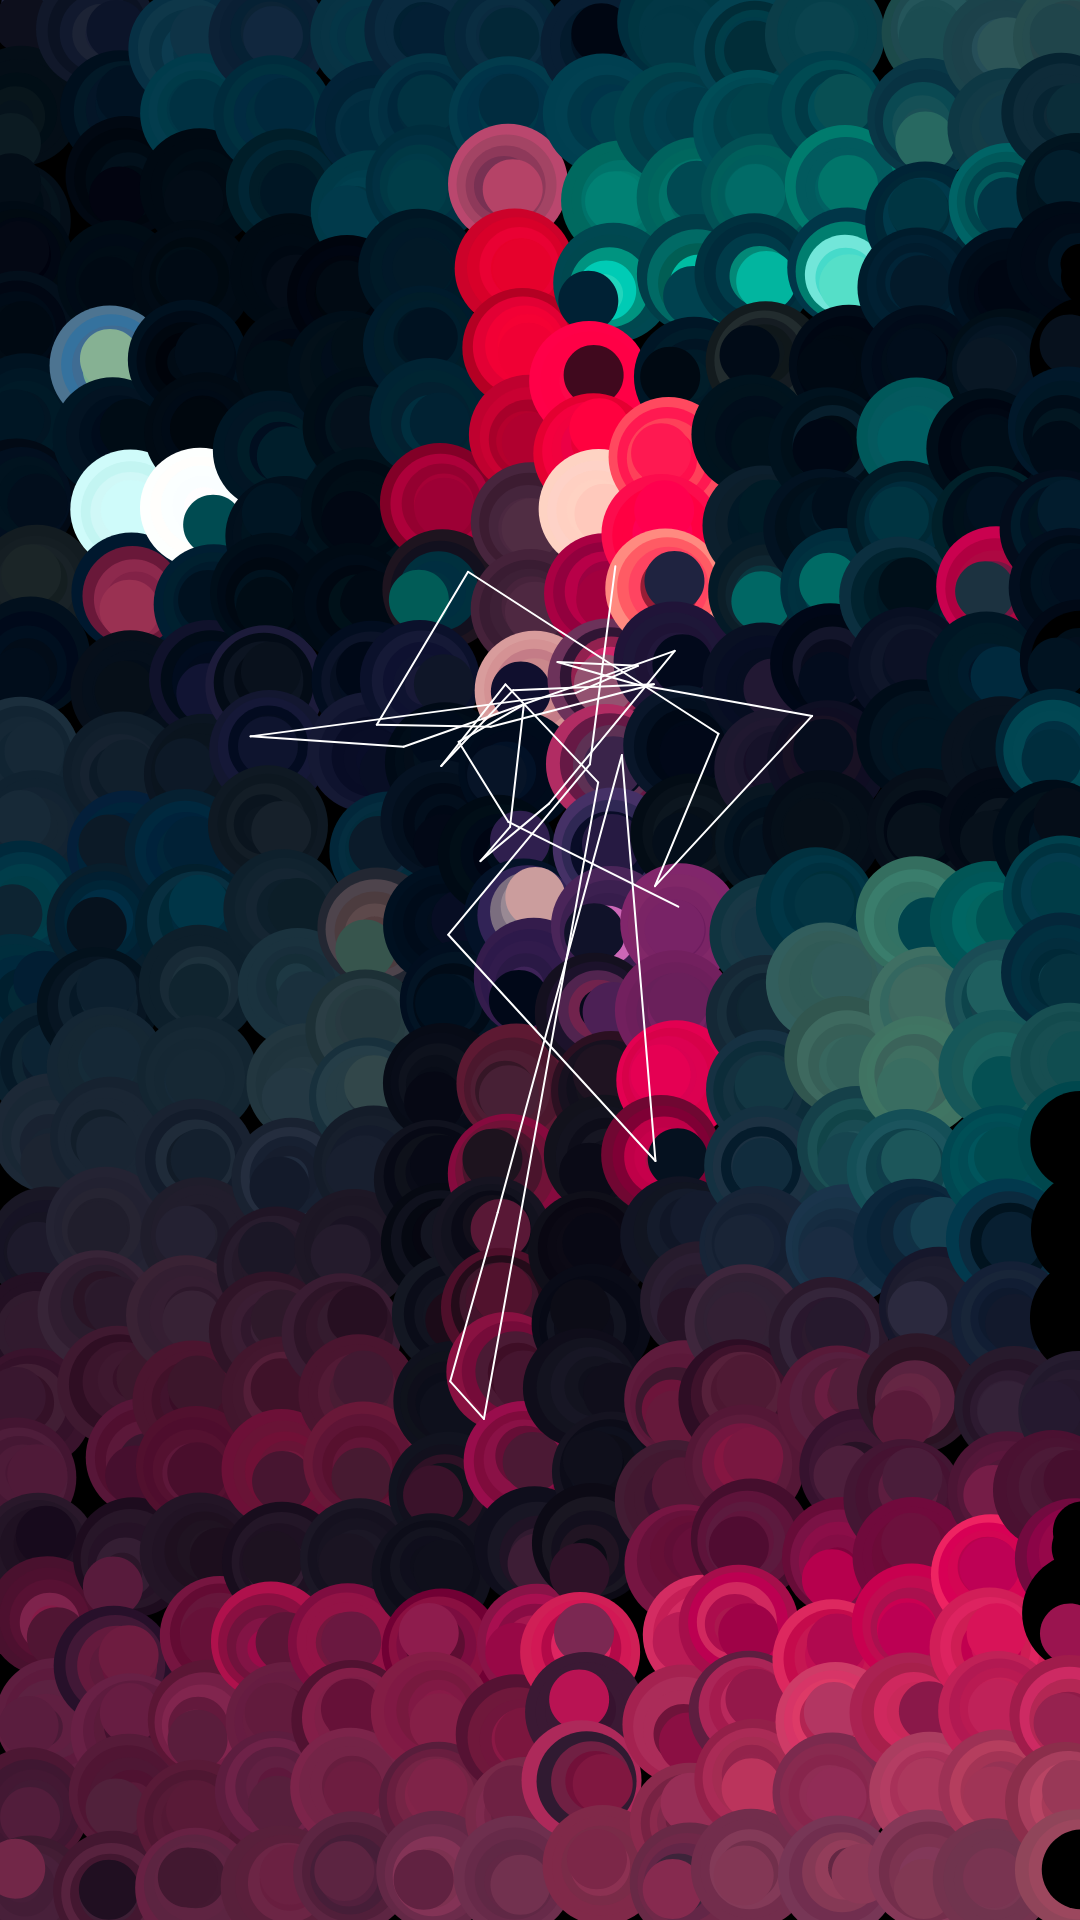
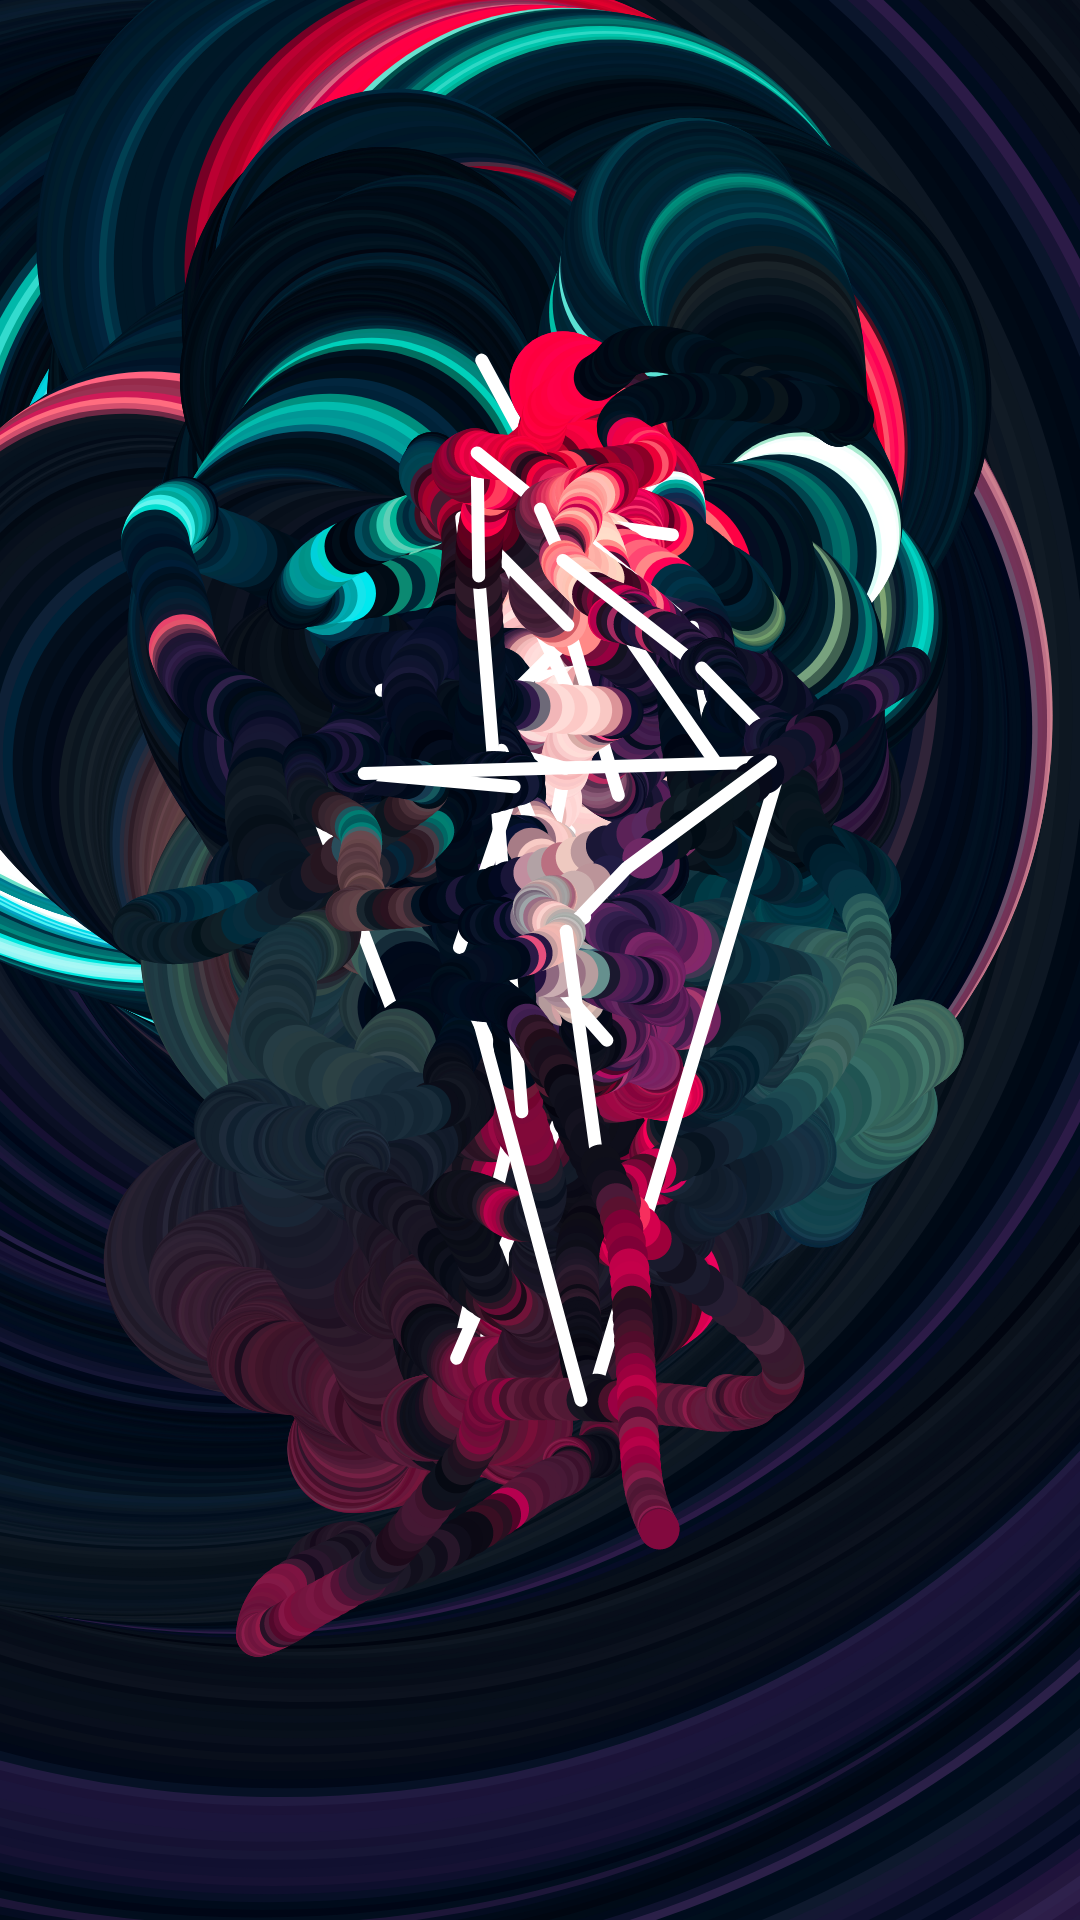
Finished Final

diff --git a/sketch.js b/sketch.js
@@ -1,22 +1,14 @@
 let sourceImg=null;
 let maskImg=null;
 let renderCounter=0;
-
-let spacing = 80;
-let cellTime = 10;
-
 let t = 0;
 let r = 1;
-
-
-let oldx;
-let oldy;
 let xN;
 let yN;
 
 function preload() {
-  sourceImg = loadImage("input_1.jpg");
-  maskImg = loadImage("mask_1.bmp");
+  sourceImg = loadImage("input_2.jpg");
+  maskImg = loadImage("mask_2.bmp");
 }
 
 function setup () {
@@ -30,68 +22,40 @@ function setup () {
 }
 
 function draw () {
+//  background(0,1);
 
-  stroke(255);
-  strokeWeight(0);
-
-  for (let x = 0; x < sourceImg.width; x = x + spacing) {
-    for (let y = 0; y < sourceImg.height; y = y + spacing) {
-
-      let pix = sourceImg.get(x+spacing/2,y+spacing/2);
-    //  fill(pix);
-    //  rect(x,y,spacing,spacing);
-
-      for (let i = 0; i < cellTime; i = i + 1) {
-        console.log(frameCount);
-
-        t = t + 0.05;
-        r = r - 0.05;
-        xN = noise(t);
-        xN = map(xN,0,1,x,x+spacing);
-        yN = noise(r);
-        yN = map(yN,0,1,y,y+spacing);
-
-        let circleSize = 120 - i*20;
-
-        let pix = sourceImg.get(xN, yN);
-
-
-
-        fill (pix);
-        ellipse (xN,yN,circleSize,circleSize);
-      }
-    }
-  }
-
-  for (let i = 0; i < 2400; i = i + 1) {
   t = t + 0.01;
   r = r - 0.005;
+
+  let circleSize = 40/t*100;
 
   let x = noise(t);
   x = map(x,0,1,0,sourceImg.width);
   let y = noise(r);
   y = map(y,0,1,0,sourceImg.height);
 
+  let pix = sourceImg.get(x, y);
   let mask = maskImg.get(x, y);
 
-    if(i % 40 == 0 && mask[0] > 128) {
-        stroke(255);
-        strokeWeight(2);
-        line (x,y,oldx,oldy);
-        oldx = x;
-        oldy = y;
-    }
-}
-    noLoop();
-    saveBlocksImages();
-    console.log("Done!")
-/*
   if (circleSize < 40) {
+    if(frameCount % 60 == 0 && mask[0] > 128) {
+        stroke(255);
+        strokeWeight(1);
+        line (x,y,xN,yN);
+        xN = x;
+        yN = y;
+      }
+    }
+    else {
+        noStroke();
+        fill (pix);
+        ellipse (x,y,circleSize,circleSize);
+    }
+  if (circleSize < 30) {
     console.log("Done!")
     noLoop();
     saveBlocksImages();
-  }*/
-
+  }
 }
 
 function keyTyped() {

diff --git a/sketch2.js b/sketch2.js
@@ -1,0 +1,54 @@
+let sourceImg=null;
+let maskImg=null;
+let renderCounter=0;
+
+function preload() {
+  sourceImg = loadImage("input_1.jpg");
+  maskImg = loadImage("mask_1.bmp");
+}
+
+function setup () {
+  let main_canvas = createCanvas(1080, 1920);
+  main_canvas.parent('canvasContainer');
+
+  imageMode(CENTER);
+  noStroke();
+  background(255);
+  sourceImg.loadPixels();
+  maskImg.loadPixels();
+}
+
+function draw () {
+  stroke(255);
+  strokeWeight(2);
+  x = 50;
+  while (x < sourceImg.width) {
+    line(x,0,x,sourceImg.height);
+    x = x +50;
+  }
+
+  for(let i=0;i<100;i++) {
+    let x = floor(random(sourceImg.width));
+    let y = floor(random(sourceImg.height));
+    let pix = sourceImg.get(x, y);
+    let mask = maskImg.get(x, y);
+    let pointSize = 100;
+    let halfSize = 50;
+    fill(pix);
+    if(mask[0] > 128) {
+      ellipse(x, y, pointSize, pointSize);
+    }
+  }
+  renderCounter = renderCounter + 1;
+  if(renderCounter > 10) {
+    console.log("Done!")
+    noLoop();
+    // saveBlocksImages();
+  }
+}
+
+function keyTyped() {
+  if (key == '!') {
+    saveBlocksImages();
+  }
+}

diff --git a/README.md b/README.md
@@ -1,5 +1,5 @@
 ## Creative Coding 2: Custom Pixel
 
-For the grid I thought it would make sense to try to create computer generated images inspired by work done by Chuck Close. The swirls and abstract nature of his 'mosaic' portraits very much influinced this work.
+My final consists of a mixture of images from this problemset, one of which is a grid based one and the other two have the swirly look. I did this as I felt some of the techniques I used communicated my intentions clearer depending on the image. When Gilbert was closer to the camera the grid wasn't neccisary to create shapes, when he was further away I used the grid as it gave shape to at least the landscape.
 
-for this one each circle acts similar to in the first part of the problem set where it gets smaller over time, painting an image. This time around, however, I made it so that the lines are not obstructed which I feel is a better effect, also there are far more circles than the initial moving circles as there is one per grid cell. This is where I learnt that render times will start becomeing something I would have to consider in my designs. I felt it turned out well in the end, the colours are looking great and I feel the viewer can sense there is an image but won't be able to figure out exactly what and I think that's a huge plus.
+A thing I found surprisingly successful is how well the theme was maintained while switching colour palettes. I originally thought it would of fallen apart but it fits nicely all together. I also think this was a good test of my coding knowledge compared to the previous problem sets as I was dealing with a lot more random variables and at the end I feel I did well to control them.
